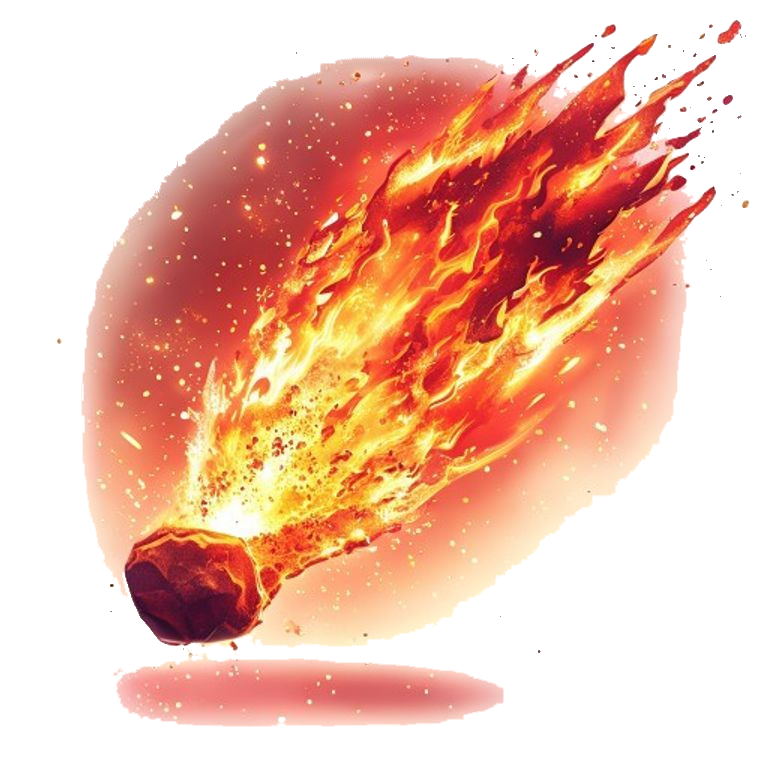
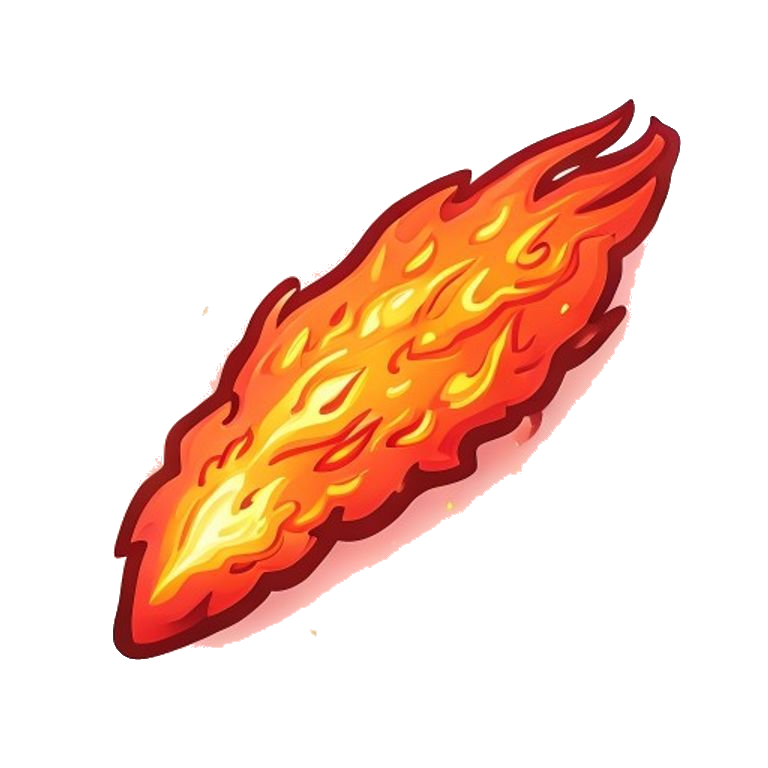
feat: เจนไอคอนอุกกาบาต/พลังโจมตีใหม่ พื้นโปร่งสะอาด (v3.24.32)
skill_meteor + skill_attack เจนใหม่ (pollinations flux, สไตล์ die-cut
sticker บนพื้นขาว) แล้วคีย์พื้นออก → โปร่งใสสะอาด ไม่มีพื้นหิน/แสงฟุ้ง
ติดภาพเหมือนของเดิม (Leonardo free ไม่มีโหมด transparency)

diff --git a/Tower Quest 🏰.html b/Tower Quest 🏰.html
@@ -3,7 +3,7 @@
 
 <meta name="viewport" content="width=device-width, initial-scale=1.0, maximum-scale=1.0, user-scalable=no">
 <title>Tower Quest 🏰</title>
-<link rel="stylesheet" href="css/main.css?v=3.24.31">
+<link rel="stylesheet" href="css/main.css?v=3.24.32">
 </head>
 <body>
 
@@ -59,7 +59,7 @@
   <div class="island" id="logoIsland">🏰</div>
   <div class="gtitle">TOWER QUEST</div>
   <div class="gsub">⚔ ปกป้องอาณาจักรของคุณ!</div>
-  <div id="verBtn" style="font-size:10px;color:rgba(255,224,130,.45);letter-spacing:1px;margin-top:-18px;margin-bottom:18px;cursor:pointer;">📰 v3.24.31 — มีอะไรใหม่<span id="newsBadge" class="news-badge" style="display:none;"></span></div>
+  <div id="verBtn" style="font-size:10px;color:rgba(255,224,130,.45);letter-spacing:1px;margin-top:-18px;margin-bottom:18px;cursor:pointer;">📰 v3.24.32 — มีอะไรใหม่<span id="newsBadge" class="news-badge" style="display:none;"></span></div>
 
   <!-- battle buttons -->
   <button class="bbattle" id="startBtn">⚔ โหมดเนื้อเรื่อง</button>
@@ -920,15 +920,15 @@
     <button class="obtn" onclick="closeSettings()">✔ ปิด</button>
   </div>
 </div>
-<script src="js/cloud-save.js?v=3.24.31"></script>
-<script src="js/save.js?v=3.24.31"></script>
-<script src="js/enemy.js?v=3.24.31"></script>
-<script src="js/tower.js?v=3.24.31"></script>
-<script src="js/game.js?v=3.24.31"></script>
-<script src="js/ui-data.js?v=3.24.31"></script>
-<script src="js/ui-profile.js?v=3.24.31"></script>
-<script src="js/ui-casino.js?v=3.24.31"></script>
-<script src="js/ui.js?v=3.24.31"></script>
+<script src="js/cloud-save.js?v=3.24.32"></script>
+<script src="js/save.js?v=3.24.32"></script>
+<script src="js/enemy.js?v=3.24.32"></script>
+<script src="js/tower.js?v=3.24.32"></script>
+<script src="js/game.js?v=3.24.32"></script>
+<script src="js/ui-data.js?v=3.24.32"></script>
+<script src="js/ui-profile.js?v=3.24.32"></script>
+<script src="js/ui-casino.js?v=3.24.32"></script>
+<script src="js/ui.js?v=3.24.32"></script>
 
 
 </body></html>

diff --git a/js/ui-data.js b/js/ui-data.js
@@ -1,6 +1,10 @@
 /* ══ WHAT'S NEW (patch notes) ══ */
-const GAME_VERSION='3.24.31';
+const GAME_VERSION='3.24.32';
 const PATCH_NOTES=[
+  {ver:'3.24.32',date:'2026-07-02',title:'🎨 เจนไอคอนอุกกาบาต/พลังโจมตีใหม่ พื้นโปร่งสะอาด',notes:[
+    'เปลี่ยนรูป ☄ อุกกาบาต และ ⚡ พลังโจมตี เป็นไอคอนใหม่สไตล์การ์ตูน พื้นหลังโปร่งใสสะอาด',
+    'ไม่มีพื้นหิน/แสงฟุ้งติดมากับภาพเหมือนของเดิมแล้ว',
+  ]},
   {ver:'3.24.31',date:'2026-07-02',title:'🧼 ลบฮาโลขาวรอบรูปป้อม/สกิลให้สะอาด',notes:[
     'ลบขอบฟุ้งสีขาวรอบรูป (เช่น เกล็ดหิมะแช่แข็งสนาม) ที่ยังเหลืออยู่ ให้พื้นหลังสะอาดจริง',
     'ใช้การคัดพื้นหลังแบบดูความอิ่มสี เก็บเอฟเฟกต์สีของป้อม/สกิลไว้ครบ',

diff --git a/CHANGELOG.md b/CHANGELOG.md
@@ -2,6 +2,11 @@
 
 All notable changes to Tower Quest 🏰 will be documented in this file.
 
+## v3.24.32 — เจนไอคอนอุกกาบาต/พลังโจมตีใหม่ (พื้นโปร่ง)
+
+### Changed
+- `assets/images/skill_meteor.png` + `skill_attack.png`: เจนใหม่ผ่าน pollinations (flux) สไตล์ die-cut sticker บนพื้นขาวเรียบ แล้วคีย์พื้นออก → ไอคอนพื้นหลังโปร่งใสสะอาด ไม่มีพื้นหินแตก/แสงฟุ้งที่วาดติดมากับภาพ AI เดิม (Leonardo แพลนฟรีไม่มีโหมด transparency จึงใช้วิธีเจนบนพื้นเรียบ+คีย์แทน)
+
 ## v3.24.31 — ลบฮาโลขาวรอบรูปป้อม/สกิล
 
 ### Changed

diff --git a/PROJECT_MASTER.md b/PROJECT_MASTER.md
@@ -3,7 +3,7 @@
 This document is a system-by-system map of the game as implemented in
 [`Tower Quest 🏰.html`](Tower%20Quest%20%F0%9F%8F%B0.html) plus its
 `css/main.css` and `js/{save,enemy,tower,game,ui}.js` modules (current
-version **v3.24.31**). Line numbers refer to these files and
+version **v3.24.32**). Line numbers refer to these files and
 may drift as they change — use them as a starting point for searches, not as
 permanent anchors.
 

diff --git a/CLAUDE.md b/CLAUDE.md
@@ -5,7 +5,7 @@ Guidance for Claude Code (and other AI assistants) working in this repository.
 ## Project Summary
 
 **Tower Quest 🏰** is a browser-based tower defense game written in
-Thai, currently at **v3.24.31**. Since the v1.6.1 refactor, the game is split
+Thai, currently at **v3.24.32**. Since the v1.6.1 refactor, the game is split
 across:
 
 - [`Tower Quest 🏰.html`](Tower%20Quest%20%F0%9F%8F%B0.html) — head/body
